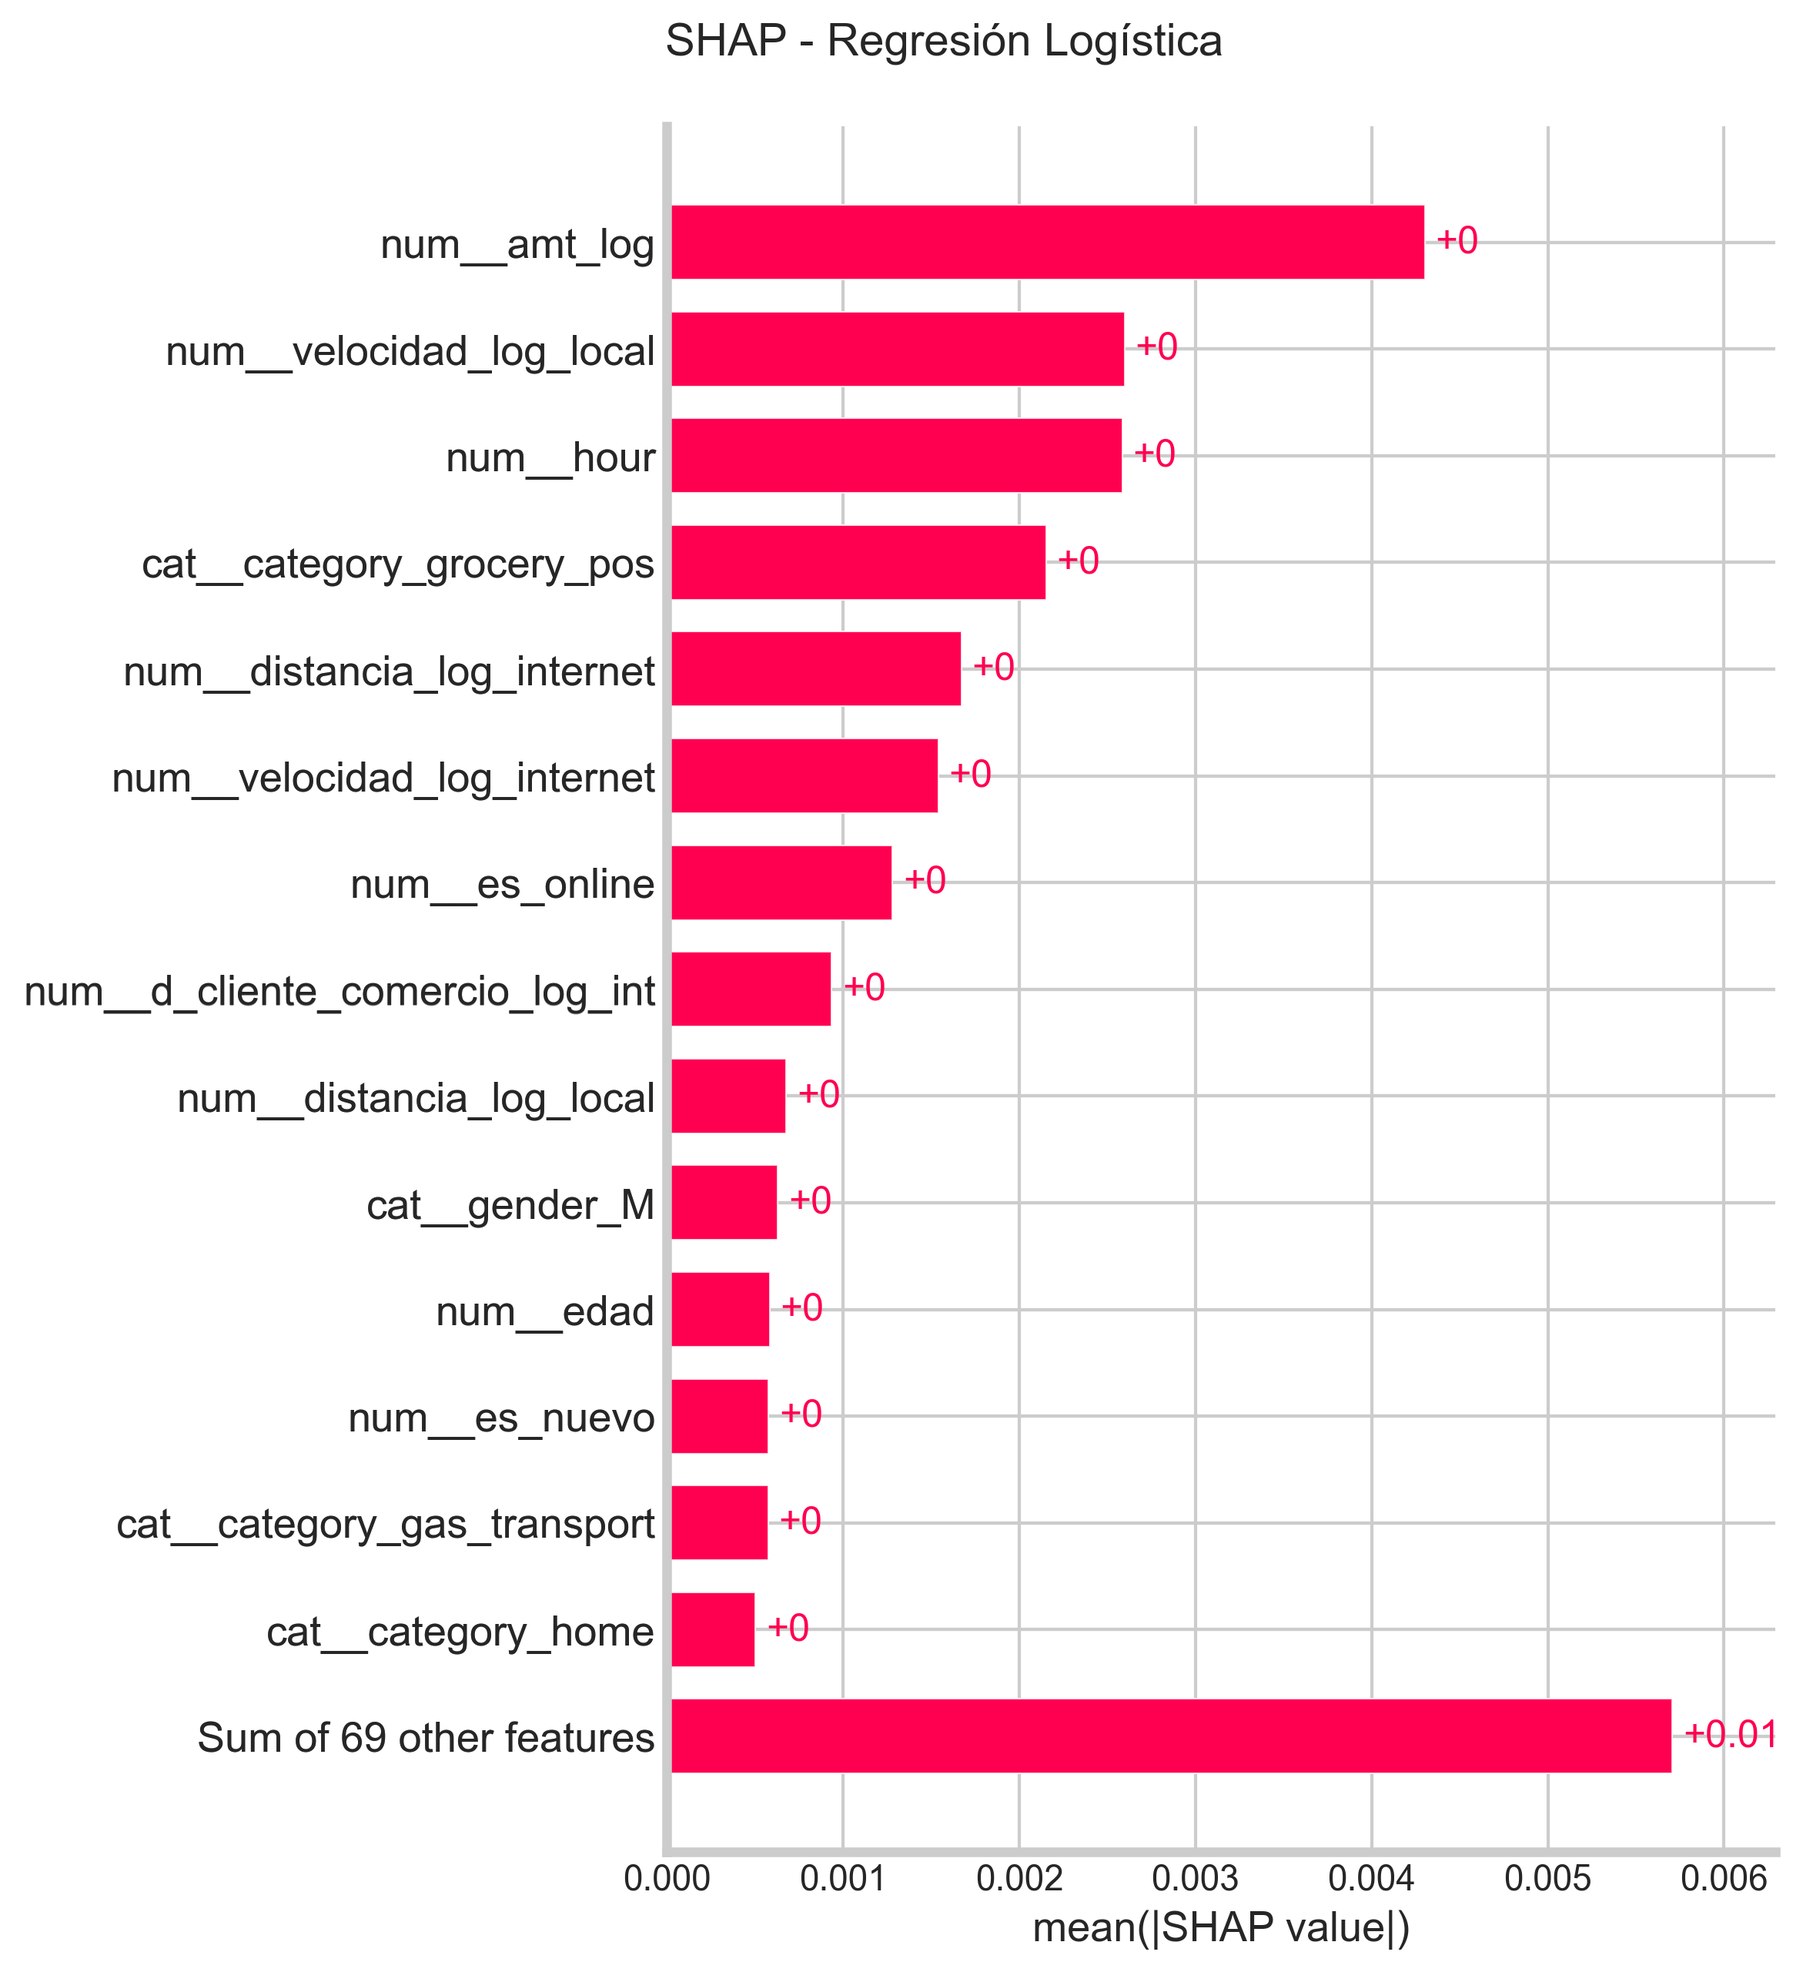
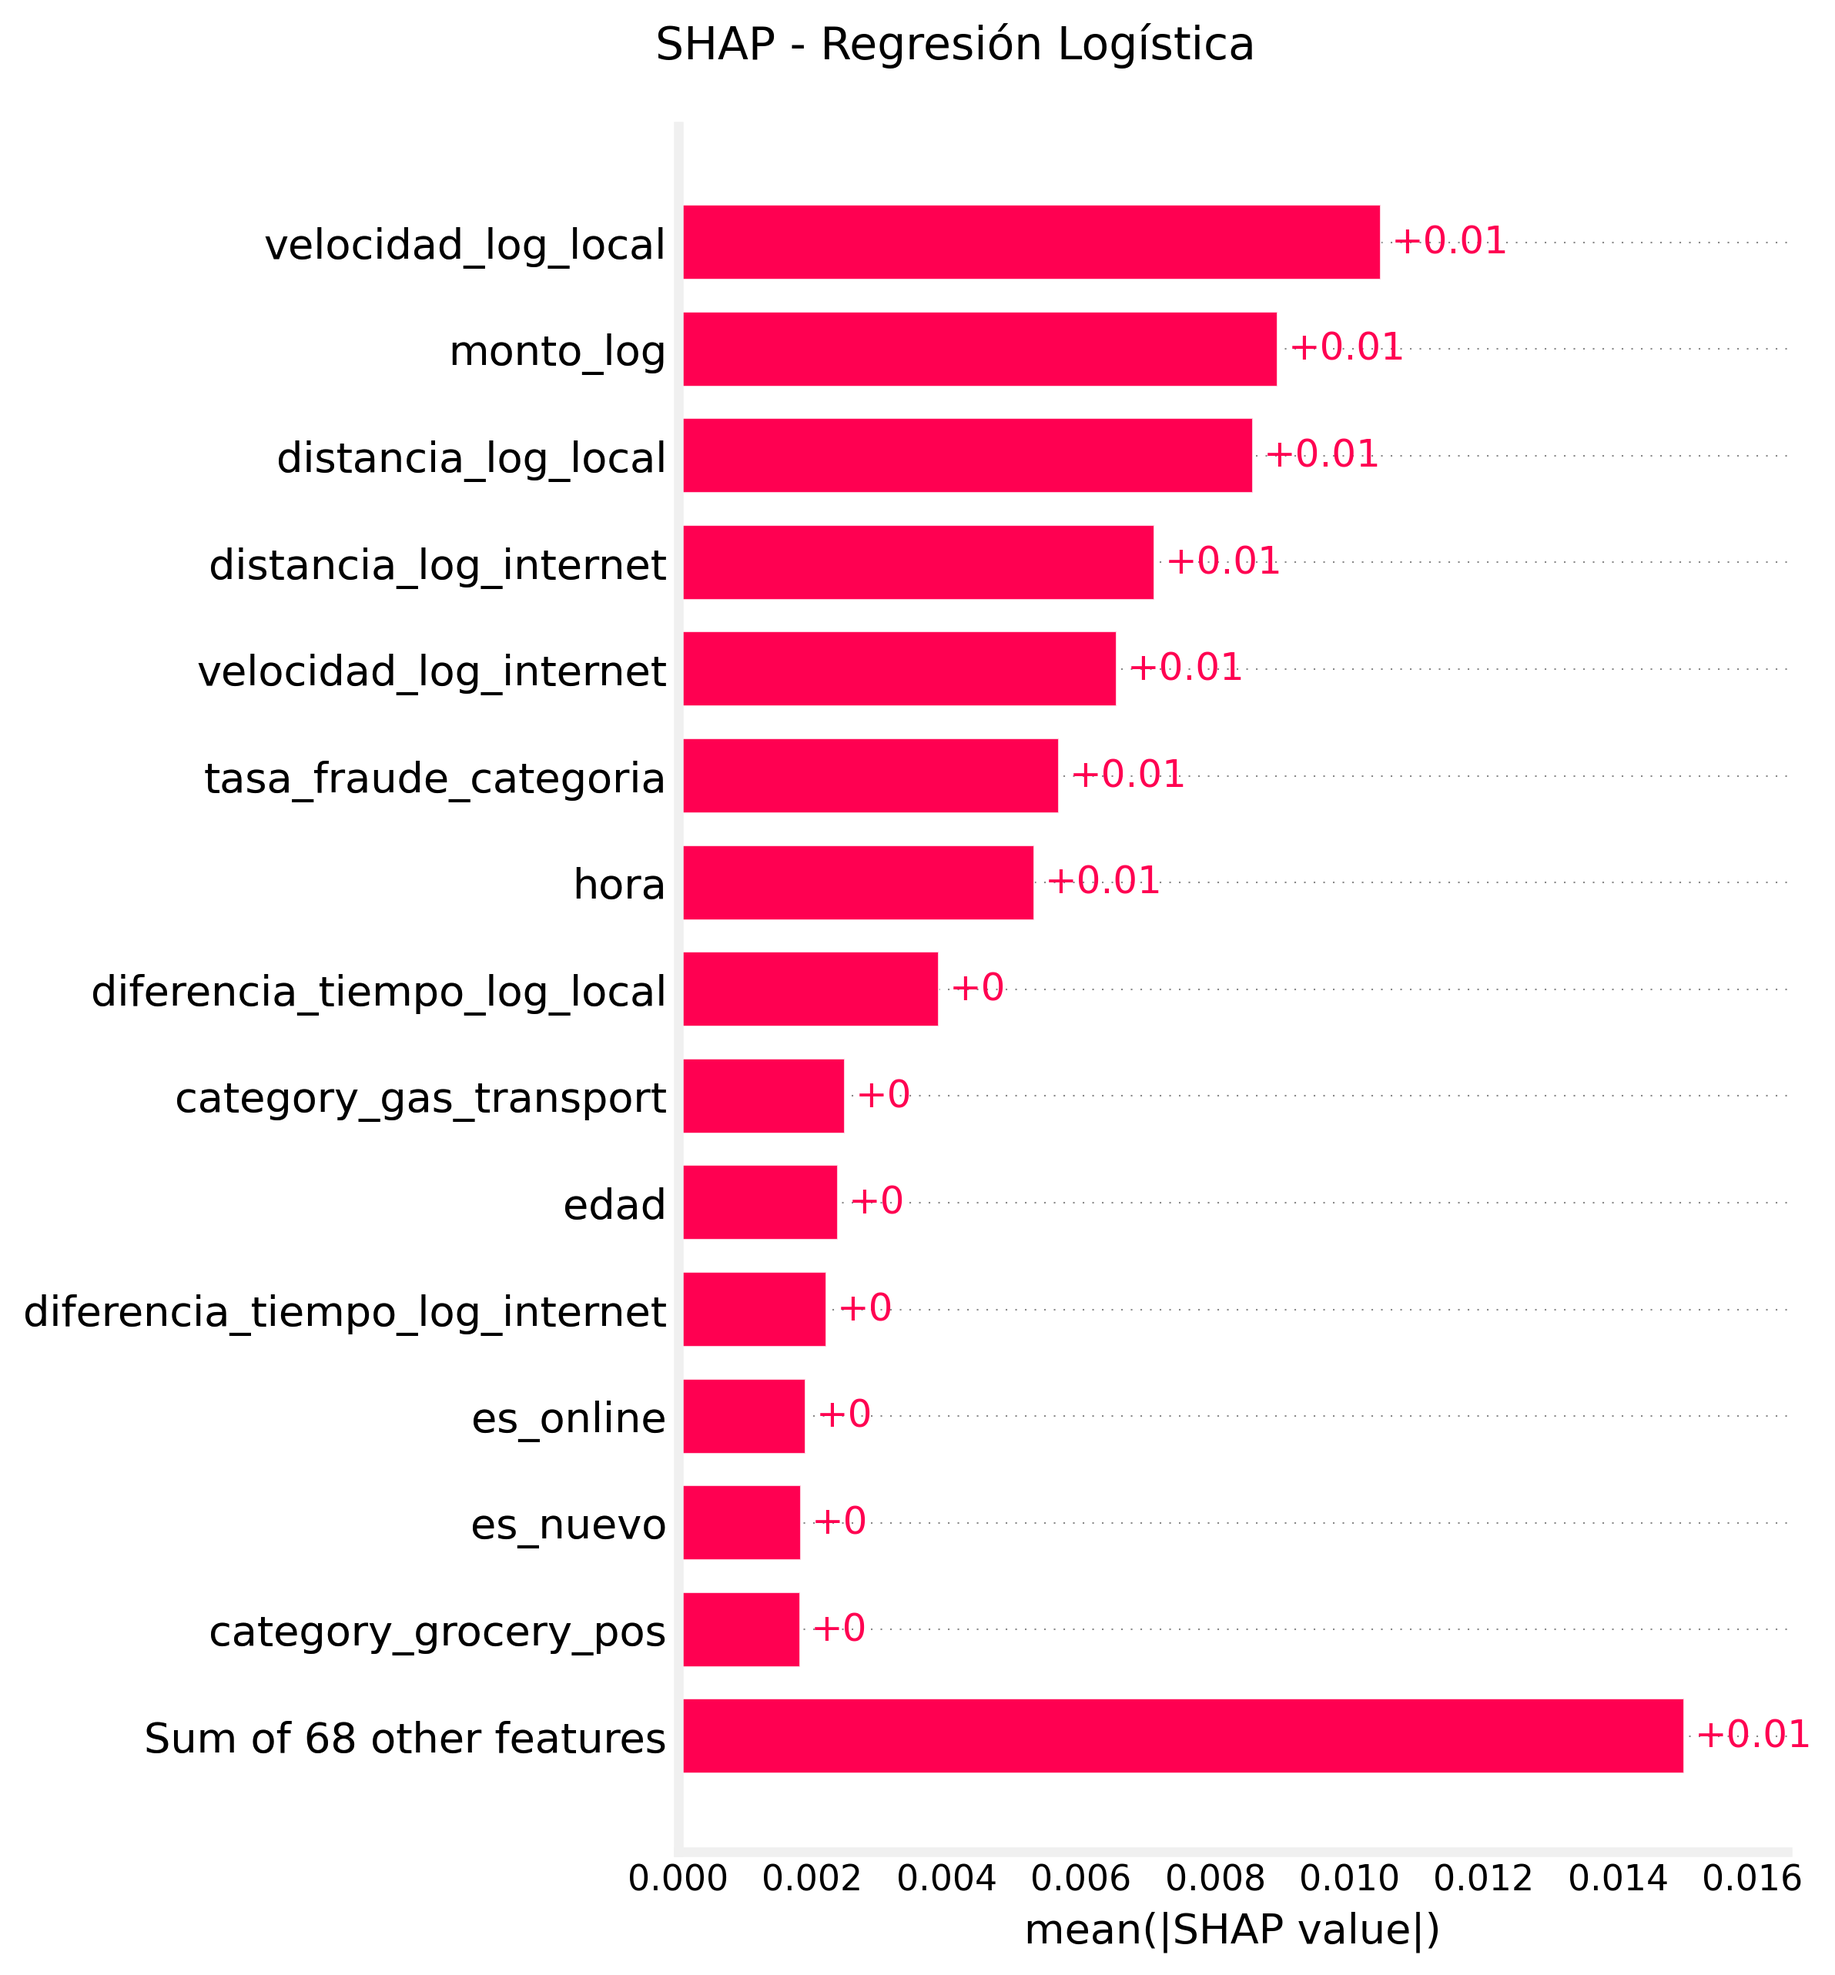
incorporacion resultados train

diff --git a/ejecucion prueba.py b/ejecucion prueba.py
@@ -248,7 +248,7 @@ try:
     print(logit_res.summary())
 
     y_prob_logit = logit_res.predict(X_test_stat)
-    evaluar_modelo("Regresión Logística", y_test_reset, y_prob_logit, umbral=0.1667)
+    evaluar_modelo("Regresión Logística", y_test_reset, y_prob_logit, umbral=0.1882)
 
 except Exception as e:
     print(f"⚠ Nota de Tesis: La Regresión Logística no convergió por inestabilidad numérica.")
@@ -289,7 +289,7 @@ xgb_model_final.fit(X_train_scaled, y_train)
 
 # Predicción y Evaluación
 y_prob_xgb = xgb_model_final.predict_proba(X_test_scaled)[:, 1]
-evaluar_modelo("XGBoost Optimizado", y_test, y_prob_xgb, umbral=0.2337)
+evaluar_modelo("XGBoost Optimizado", y_test, y_prob_xgb, umbral=0.2843)
 
 
 
@@ -327,7 +327,7 @@ y_prob_lof_max = np.maximum.reduce(scores_acumulados)
 # Normalización para el Benchmark
 y_prob_lof_final = (y_prob_lof_max - y_prob_lof_max.min()) / (y_prob_lof_max.max() - y_prob_lof_max.min() + 1e-9)
 
-evaluar_modelo("LOF (Rango 20-50)", y_test, y_prob_lof_final, umbral=0.6811)
+evaluar_modelo("LOF (Rango 20-50)", y_test, y_prob_lof_final, umbral=0.0143)
 
 # --- 6. PREPARACIÓN PARA REDES NEURONALES (PyTorch) ---
 X_train_tensor = torch.from_numpy(X_train_scaled.copy()).float()
@@ -377,7 +377,7 @@ for epoch in range(num_epochs):
 mlp_model.eval()
 with torch.no_grad():
     y_prob_mlp = torch.sigmoid(mlp_model(X_test_tensor)).numpy().flatten()
-    evaluar_modelo("MLP Balanceado", y_test, y_prob_mlp, umbral=1)
+    evaluar_modelo("MLP Balanceado", y_test, y_prob_mlp, umbral=0.9949)
 """
 # --- GRÁFICA DE SALIDA (Separada del flujo de entrenamiento) ---
 plt.figure(figsize=(8, 4))
@@ -487,29 +487,62 @@ df_umbrales = pd.DataFrame(resultados_umbrales)
 print("\n=== RESULTADOS DE OPTIMIZACIÓN DE UMBRALES ===")
 print(df_umbrales[['Modelo', 'Umbral_Optimo', 'F1_Score', 'FP', 'FN']])
 
+# ==============================================================================
+# 🎯 EVALUACIÓN DE APRENDIZAJE EN TRAIN (LOS 6 MODELOS DE LA TESIS)
+# ==============================================================================
+print("\n" + "=" * 60)
+print("🔥 INICIANDO AUDITORÍA DE APRENDIZAJE: MUESTRA TRAIN")
+print("=" * 60)
 
-"""
-# --- FASE FINAL: INTERPRETABILIDAD COMPARATIVA ---
-nombres_columnas = preprocessor.get_feature_names_out()
+# Reseteamos el target de entrenamiento a un array limpio de NumPy
+y_train_arr = y_train.values
 
-# Modelos Supervisados
-aplicar_shap_tesis_final(xgb_model_final, X_test_scaled, nombres_columnas, "XGBoost")
-aplicar_shap_tesis_final(mlp_model, X_test_scaled, nombres_columnas, "MLP", es_pytorch=True)
+if 'logit_res' in locals():
+    y_prob_logit_train = logit_res.predict(X_train_stat)
+    evaluar_aprendizaje_train("Regresión Logística", y_train_arr, y_prob_logit_train)
 
-# CORREGIDO: Pasamos logit_res y activamos el flag de statsmodels
-aplicar_shap_tesis_final(logit_res, X_test_scaled, nombres_columnas, "Regresión Logística", es_statsmodels=True)
+if 'xgb_model_final' in locals():
+    y_prob_xgb_train = xgb_model_final.predict_proba(X_train_scaled)[:, 1]
+    evaluar_aprendizaje_train("XGBoost Optimizado", y_train_arr, y_prob_xgb_train)
 
-# Modelos No Supervisados / Anomalías
-aplicar_shap_tesis_final(iso_forest, X_test_scaled, nombres_columnas, "Isolation Forest")
-aplicar_shap_tesis_final(ae_model, X_test_scaled, nombres_columnas, "Autoencoder", es_pytorch=True)
-# Ejecución de la interpretabilidad para LOF
-df_res_lofo = aplicar_lofo_tesis_final(
-    X_train_scaled,
-    X_test_scaled,
-    nombres_columnas,
-    nombre_modelo="LOF_Rango_20_50"
-)
-"""
+if 'mlp_model' in locals():
+    mlp_model.eval()
+    with torch.no_grad():
+        y_prob_mlp_train = torch.sigmoid(mlp_model(X_train_tensor)).cpu().numpy().flatten()
+    evaluar_aprendizaje_train("MLP Balanceado", y_train_arr, y_prob_mlp_train)
+
+if 'iso_forest' in locals():
+    y_prob_iso_train_raw = -iso_forest.decision_function(X_train_scaled)
+    # Normalización Min-Max local para consistencia en el reporte 0-1
+    y_prob_iso_train = (y_prob_iso_train_raw - y_prob_iso_train_raw.min()) / (
+                y_prob_iso_train_raw.max() - y_prob_iso_train_raw.min() + 1e-9)
+    evaluar_aprendizaje_train("Isolation Forest", y_train_arr, y_prob_iso_train)
+
+if 'rango_vecinos' in locals():
+    scores_acum_train = []
+    for k in rango_vecinos:
+        lof_t = get_lof(neighbors=k)
+        lof_t.fit(X_train_scaled)  # Se ajusta y extrae sobre el mismo set
+        scores_acum_train.append(-lof_t.score_samples(X_train_scaled))
+
+    y_prob_lof_max_train = np.maximum.reduce(scores_acum_train)
+    y_prob_lof_train = (y_prob_lof_max_train - y_prob_lof_max_train.min()) / (
+                y_prob_lof_max_train.max() - y_prob_lof_max_train.min() + 1e-9)
+    evaluar_aprendizaje_train("LOF (Rango 20-50)", y_train_arr, y_prob_lof_train)
+
+if 'ae_model' in locals():
+    ae_model.eval()
+    with torch.no_grad():
+        reconst_train = ae_model(X_train_tensor)
+        mse_train_raw = torch.mean((X_train_tensor - reconst_train) ** 2, dim=1).cpu().numpy()
+
+    # Normalización de los errores de reconstrucción a escala 0-1
+    y_prob_ae_train = (mse_train_raw - mse_train_raw.min()) / (mse_train_raw.max() - mse_train_raw.min() + 1e-9)
+    evaluar_aprendizaje_train("Autoencoder", y_train_arr, y_prob_ae_train)
+
+print("=" * 60)
+print("✅ Auditoría de entrenamiento completada de forma exitosa.")
+print("=" * 60)
 # --- EVALUACIÓN ECONÓMICA FINAL (TESIS) ---
 
 # 1. Cálculo de Frecuencia Dinámica con Suavizado (Smoothing)
@@ -581,12 +614,12 @@ print("=" * 50)
 print(df_resumen[['modelo', 'costo_total', 'ahorro', 'ahorro_pct', 'fp', 'fn']])
 
 info_modelos = {
-    'Regresión Logística': {'probabilidades': y_prob_logit, 'umbral_f1': 0.1667},
-    'XGBoost': {'probabilidades': y_prob_xgb, 'umbral_f1': 0.2337},
-    'MLP': {'probabilidades': y_prob_mlp, 'umbral_f1': 0.9991},  # Umbral actualizado según tu entrenamiento
+    'Regresión Logística': {'probabilidades': y_prob_logit, 'umbral_f1': 0.1882},
+    'XGBoost': {'probabilidades': y_prob_xgb, 'umbral_f1': 0.2843},
+    'MLP': {'probabilidades': y_prob_mlp, 'umbral_f1': 0.9949},  # Umbral actualizado según tu entrenamiento
     'Autoencoder': {'probabilidades': y_prob_ae_norm, 'umbral_f1': 0.0553},  # Usamos versión normalizada
     'Isolation Forest': {'probabilidades': y_prob_iso, 'umbral_f1': 0.8109},
-    'LOF': {'probabilidades': y_prob_lof_final, 'umbral_f1': 0.6811}
+    'LOF': {'probabilidades': y_prob_lof_final, 'umbral_f1': 0.0143}
 }
 
 # Ejecución de la matriz comparativa total (F1 vs Bayes)
@@ -806,4 +839,27 @@ ranks_auc_ctrl, holm_auc_ctrl = pipeline_iman_davenport_holm_control(
 
 ranks_ahorro_ctrl, holm_ahorro_ctrl = pipeline_iman_davenport_holm_control(
     df_iman_ahorro, "Ahorro Financiero (Bayes)", modelo_control="XGBoost", buscar_maximo=True
+)
+
+
+
+# --- FASE FINAL: INTERPRETABILIDAD COMPARATIVA ---
+nombres_columnas = preprocessor.get_feature_names_out()
+
+# Modelos Supervisados
+aplicar_shap_tesis_final(xgb_model_final, X_test_scaled, nombres_columnas, "XGBoost")
+aplicar_shap_tesis_final(mlp_model, X_test_scaled, nombres_columnas, "MLP", es_pytorch=True)
+
+# CORREGIDO: Pasamos logit_res y activamos el flag de statsmodels
+aplicar_shap_tesis_final(logit_res, X_test_scaled, nombres_columnas, "Regresión Logística", es_statsmodels=True)
+
+# Modelos No Supervisados / Anomalías
+aplicar_shap_tesis_final(iso_forest, X_test_scaled, nombres_columnas, "Isolation Forest")
+aplicar_shap_tesis_final(ae_model, X_test_scaled, nombres_columnas, "Autoencoder", es_pytorch=True)
+# Ejecución de la interpretabilidad para LOF
+df_res_lofo = aplicar_lofo_tesis_final(
+    X_train_scaled,
+    X_test_scaled,
+    nombres_columnas,
+    nombre_modelo="LOF_Rango_20_50"
 )

diff --git a/models.py b/models.py
@@ -237,6 +237,31 @@ def evaluar_modelo(nombre, y_real, y_prob, umbral=None):
     }
 
 
+def evaluar_aprendizaje_train(nombre_modelo, y_real_train, y_prob_train):
+    from sklearn.metrics import roc_auc_score, precision_recall_curve, auc
+    import pandas as pd
+
+    # 1. Calcular AUC-ROC
+    roc_auc = roc_auc_score(y_real_train, y_prob_train)
+
+    # 2. Calcular AUC-PR (Área bajo la curva Precisión-Recall)
+    precision, recall, _ = precision_recall_curve(y_real_train, y_prob_train)
+    pr_auc = auc(recall, precision)
+
+    # 3. Imprimir de forma idéntica y limpia en la consola
+    print(f"\n📈 RENDIMIENTO EN ENTRENAMIENTO (TRAIN): {nombre_modelo}")
+    print(f"  - AUC-ROC: {roc_auc:.4f}")
+    print(f"  - AUC-PR:  {pr_auc:.4f}")
+    print("-" * 50)
+
+    # Devolvemos un diccionario por si después quieres armar un DataFrame con los 6
+    return {
+        "Modelo": nombre_modelo,
+        "AUC-ROC (Train)": round(roc_auc, 4),
+        "AUC-PR (Train)": round(pr_auc, 4)
+    }
+
+
 def aplicar_shap_tesis_final(model, X_data_numpy, feature_names, nombre_modelo="Modelo", es_pytorch=False,
                              es_lof=False, es_statsmodels=False):  # <--- Agregamos este parámetro nuevo
     print(f"\n" + "=" * 40)
@@ -458,7 +483,7 @@ def aplicar_lofo_tesis_final(X_train_scaled, X_test_scaled, feature_names, nombr
 def encontrar_mejor_umbral(nombre_modelo, y_real, y_prob):
     # Calculamos precision, recall y los umbrales posibles
     precision, recall, thresholds = precision_recall_curve(y_real, y_prob)
-    
+
     precision_corr = precision[:-1]
     recall_corr = recall[:-1]
 
